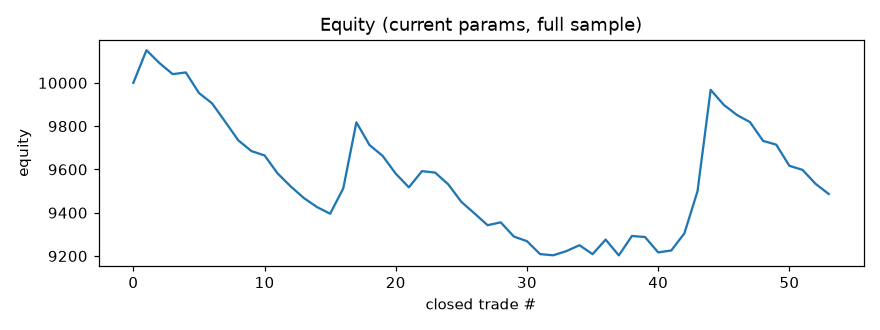
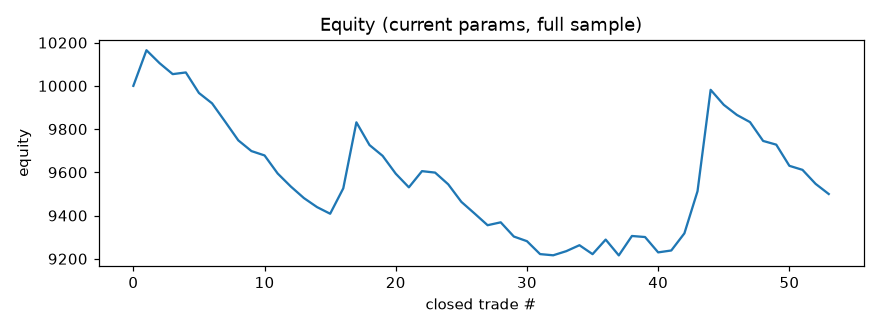
chore(finetune): cycle 2026-09-01T16:33Z

diff --git a/results/ETCUSDT/REPORT.md b/results/ETCUSDT/REPORT.md
@@ -1,6 +1,6 @@
 # Finetune report -- ETCUSDT 15m
 
-_Last run (UTC): 2026-09-01 12:17_
+_Last run (UTC): 2026-09-01 16:33_
 
 ## Current params (live)
 
@@ -13,7 +13,7 @@ _Last run (UTC): 2026-09-01 12:17_
   "use_adx": true,
   "adx_len": 14,
   "adx_thresh": 20.0,
-  "don_len": 30,
+  "don_len": 15,
   "atr_len": 14,
   "atr_mult": 3.5,
   "chand_len": 26,
@@ -24,7 +24,7 @@ _Last run (UTC): 2026-09-01 12:17_
 
 ## Latest cycle
 
-- Current-params net profit (full sample): **-5.13%**, PF 0.76, 53 trades, max DD -951.52
+- Current-params net profit (full sample): **-5.0%**, PF 0.766, 53 trades, max DD -952.84
 - Optimizer out-of-sample: net **3.08%**, PF 1.509, 16 trades
 - Decision: **PROMOTED new params**
 
@@ -34,7 +34,6 @@ _Last run (UTC): 2026-09-01 12:17_
 
 | time (UTC) | data bars | live net% | live PF | OOS net% | OOS PF | accepted |
 |---|---|---|---|---|---|---|
-| 2026-08-31 00:34 | 5000 | -5.4 | 0.748 | 3.05 | 1.454 | True |
 | 2026-08-31 04:15 | 5000 | -5.85 | 0.732 | 2.56 | 1.352 | True |
 | 2026-08-31 08:18 | 5000 | -5.85 | 0.732 | 2.56 | 1.353 | True |
 | 2026-08-31 12:18 | 5000 | -5.85 | 0.732 | 3.02 | 1.441 | True |
@@ -44,3 +43,4 @@ _Last run (UTC): 2026-09-01 12:17_
 | 2026-09-01 04:13 | 5000 | -5.86 | 0.732 | 2.35 | 1.346 | True |
 | 2026-09-01 08:17 | 5000 | -5.27 | 0.753 | 3.08 | 1.509 | True |
 | 2026-09-01 12:17 | 5000 | -5.13 | 0.76 | 3.08 | 1.509 | True |
+| 2026-09-01 16:33 | 5000 | -5.0 | 0.766 | 3.08 | 1.509 | True |

diff --git a/results/BTCUSDT/REPORT.md b/results/BTCUSDT/REPORT.md
@@ -1,6 +1,6 @@
 # Finetune report -- BTCUSDT 15m
 
-_Last run (UTC): 2026-09-01 12:17_
+_Last run (UTC): 2026-09-01 16:33_
 
 ## Current params (live)
 
@@ -24,8 +24,8 @@ _Last run (UTC): 2026-09-01 12:17_
 
 ## Latest cycle
 
-- Current-params net profit (full sample): **-10.66%**, PF 0.458, 71 trades, max DD -1066.07
-- Optimizer out-of-sample: net **-2.45%**, PF 0.594, 20 trades
+- Current-params net profit (full sample): **-10.66%**, PF 0.458, 71 trades, max DD -1066.47
+- Optimizer out-of-sample: net **-1.93%**, PF 0.651, 19 trades
 - Decision: **kept current params**
 
 ![equity curve](equity_curve.png)
@@ -34,7 +34,6 @@ _Last run (UTC): 2026-09-01 12:17_
 
 | time (UTC) | data bars | live net% | live PF | OOS net% | OOS PF | accepted |
 |---|---|---|---|---|---|---|
-| 2026-08-31 00:34 | 5000 | -10.82 | 0.453 | -1.44 | 0.724 | False |
 | 2026-08-31 04:14 | 5000 | -11.21 | 0.443 | -1.89 | 0.661 | False |
 | 2026-08-31 08:17 | 5000 | -10.51 | 0.461 | -1.89 | 0.661 | False |
 | 2026-08-31 12:18 | 5000 | -10.51 | 0.461 | -2.01 | 0.647 | False |
@@ -44,3 +43,4 @@ _Last run (UTC): 2026-09-01 12:17_
 | 2026-09-01 04:13 | 5000 | -10.82 | 0.454 | -2.14 | 0.627 | False |
 | 2026-09-01 08:16 | 5000 | -10.66 | 0.458 | -2.01 | 0.642 | False |
 | 2026-09-01 12:17 | 5000 | -10.66 | 0.458 | -2.45 | 0.594 | False |
+| 2026-09-01 16:33 | 5000 | -10.66 | 0.458 | -1.93 | 0.651 | False |

diff --git a/results/ETHUSDT/REPORT.md b/results/ETHUSDT/REPORT.md
@@ -1,6 +1,6 @@
 # Finetune report -- ETHUSDT 15m
 
-_Last run (UTC): 2026-09-01 12:17_
+_Last run (UTC): 2026-09-01 16:33_
 
 ## Current params (live)
 
@@ -24,8 +24,8 @@ _Last run (UTC): 2026-09-01 12:17_
 
 ## Latest cycle
 
-- Current-params net profit (full sample): **-18.47%**, PF 0.331, 98 trades, max DD -1905.79
-- Optimizer out-of-sample: net **-6.73%**, PF 0.137, 27 trades
+- Current-params net profit (full sample): **-18.83%**, PF 0.326, 99 trades, max DD -1908.06
+- Optimizer out-of-sample: net **-5.72%**, PF 0.058, 23 trades
 - Decision: **kept current params**
 
 ![equity curve](equity_curve.png)
@@ -34,7 +34,6 @@ _Last run (UTC): 2026-09-01 12:17_
 
 | time (UTC) | data bars | live net% | live PF | OOS net% | OOS PF | accepted |
 |---|---|---|---|---|---|---|
-| 2026-08-31 00:34 | 5000 | -19.66 | 0.299 | -6.34 | 0.143 | False |
 | 2026-08-31 04:14 | 5000 | -18.99 | 0.322 | -6.45 | 0.141 | False |
 | 2026-08-31 08:18 | 5000 | -19.48 | 0.315 | -6.45 | 0.141 | False |
 | 2026-08-31 12:18 | 5000 | -18.88 | 0.324 | -6.45 | 0.141 | False |
@@ -44,3 +43,4 @@ _Last run (UTC): 2026-09-01 12:17_
 | 2026-09-01 04:13 | 5000 | -19.18 | 0.32 | -7.09 | 0.13 | False |
 | 2026-09-01 08:16 | 5000 | -19.17 | 0.321 | -6.7 | 0.137 | False |
 | 2026-09-01 12:17 | 5000 | -18.47 | 0.331 | -6.73 | 0.137 | False |
+| 2026-09-01 16:33 | 5000 | -18.83 | 0.326 | -5.72 | 0.058 | False |

diff --git a/results/REPORT.md b/results/REPORT.md
@@ -1,9 +1,9 @@
 # Finetune index -- 15m
 
-_Last run (UTC): 2026-09-01 12:17_
+_Last run (UTC): 2026-09-01 16:33_
 
 | symbol | bars | live net% | live PF | OOS net% | OOS PF | trades | accepted | report |
 |---|---|---|---|---|---|---|---|---|
-| BTCUSDT | 5000 | -10.66 | 0.458 | -2.45 | 0.594 | 20 | False | [BTCUSDT](BTCUSDT/REPORT.md) |
-| ETHUSDT | 5000 | -18.47 | 0.331 | -6.73 | 0.137 | 27 | False | [ETHUSDT](ETHUSDT/REPORT.md) |
-| ETCUSDT | 5000 | -5.13 | 0.76 | 3.08 | 1.509 | 16 | True | [ETCUSDT](ETCUSDT/REPORT.md) |
+| BTCUSDT | 5000 | -10.66 | 0.458 | -1.93 | 0.651 | 19 | False | [BTCUSDT](BTCUSDT/REPORT.md) |
+| ETHUSDT | 5000 | -18.83 | 0.326 | -5.72 | 0.058 | 23 | False | [ETHUSDT](ETHUSDT/REPORT.md) |
+| ETCUSDT | 5000 | -5.0 | 0.766 | 3.08 | 1.509 | 16 | True | [ETCUSDT](ETCUSDT/REPORT.md) |
